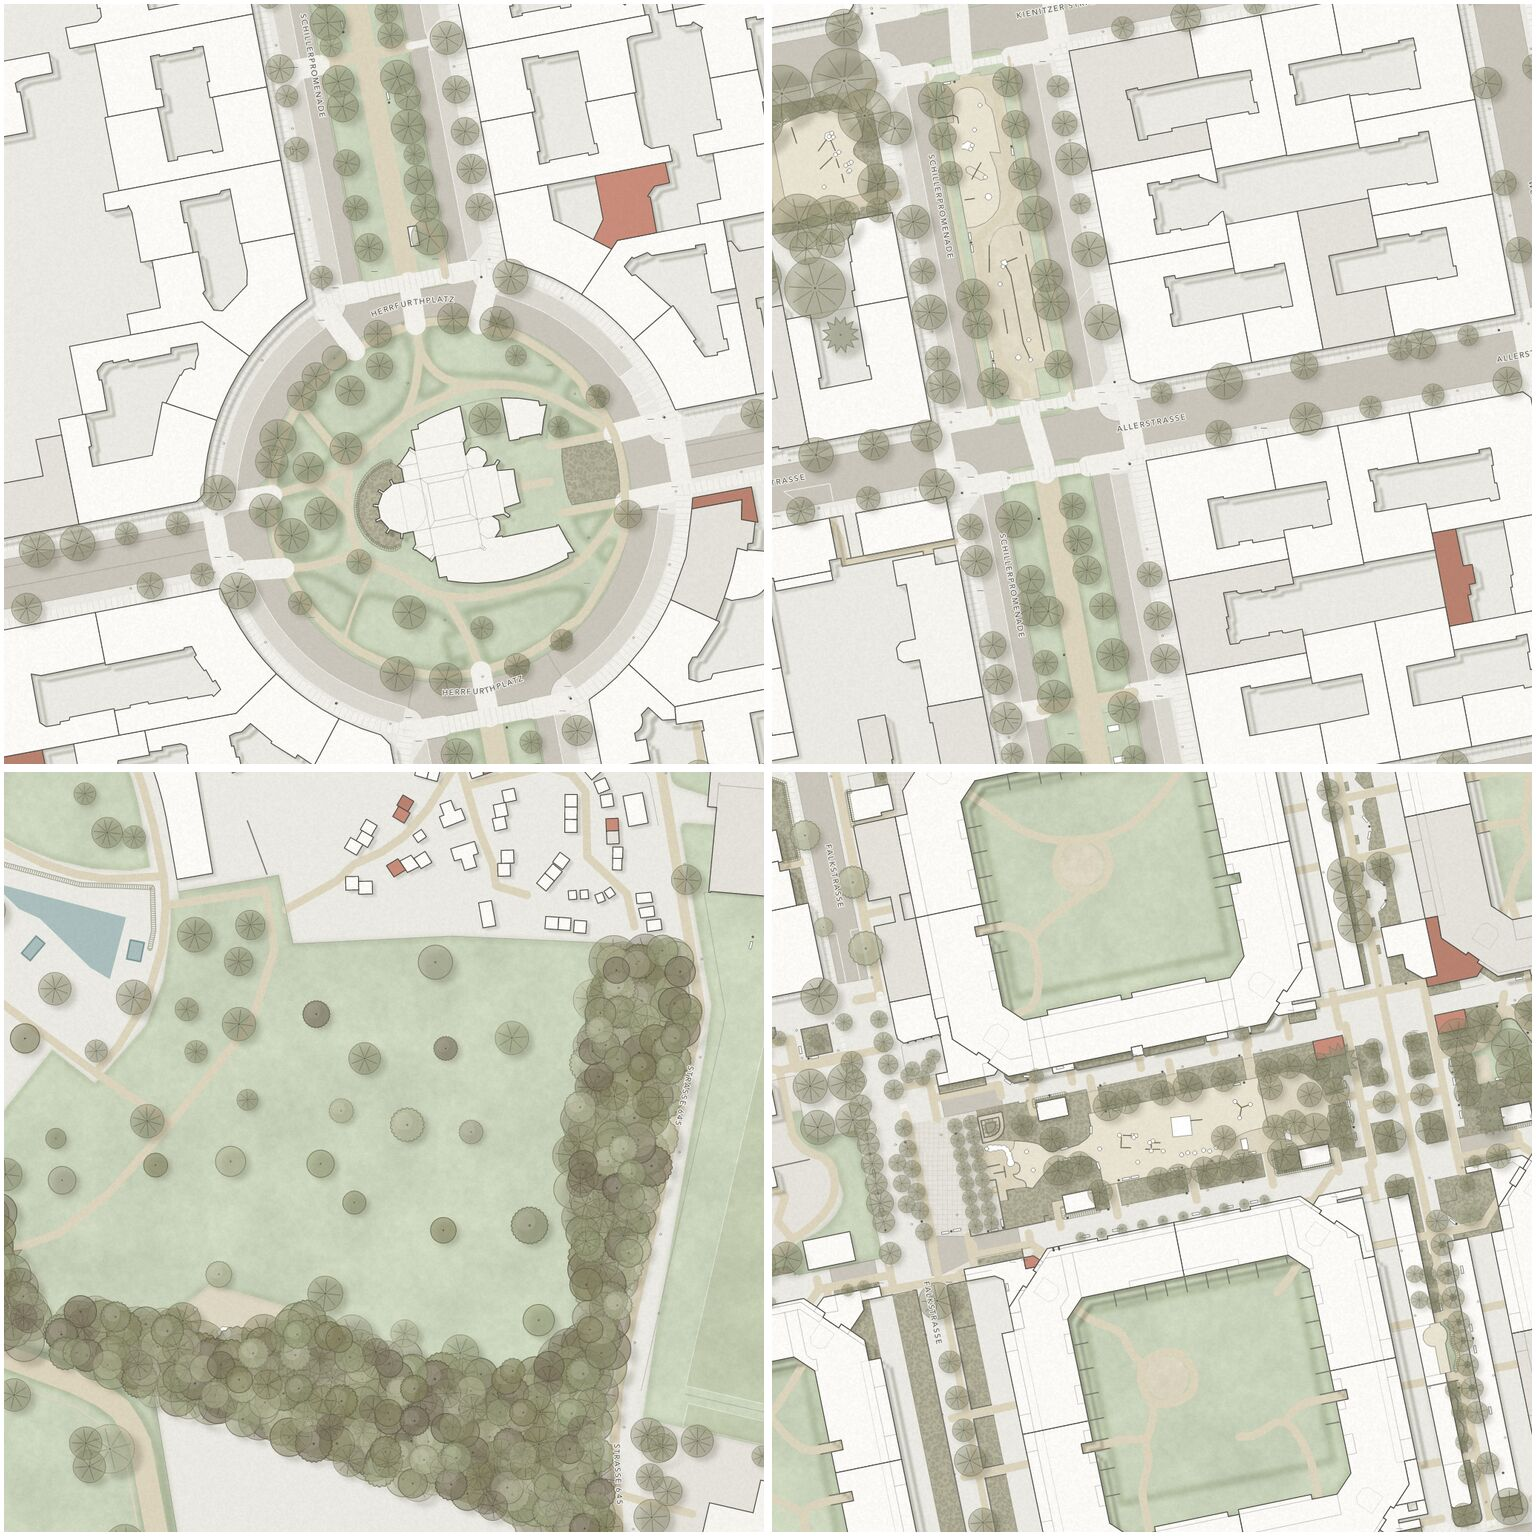
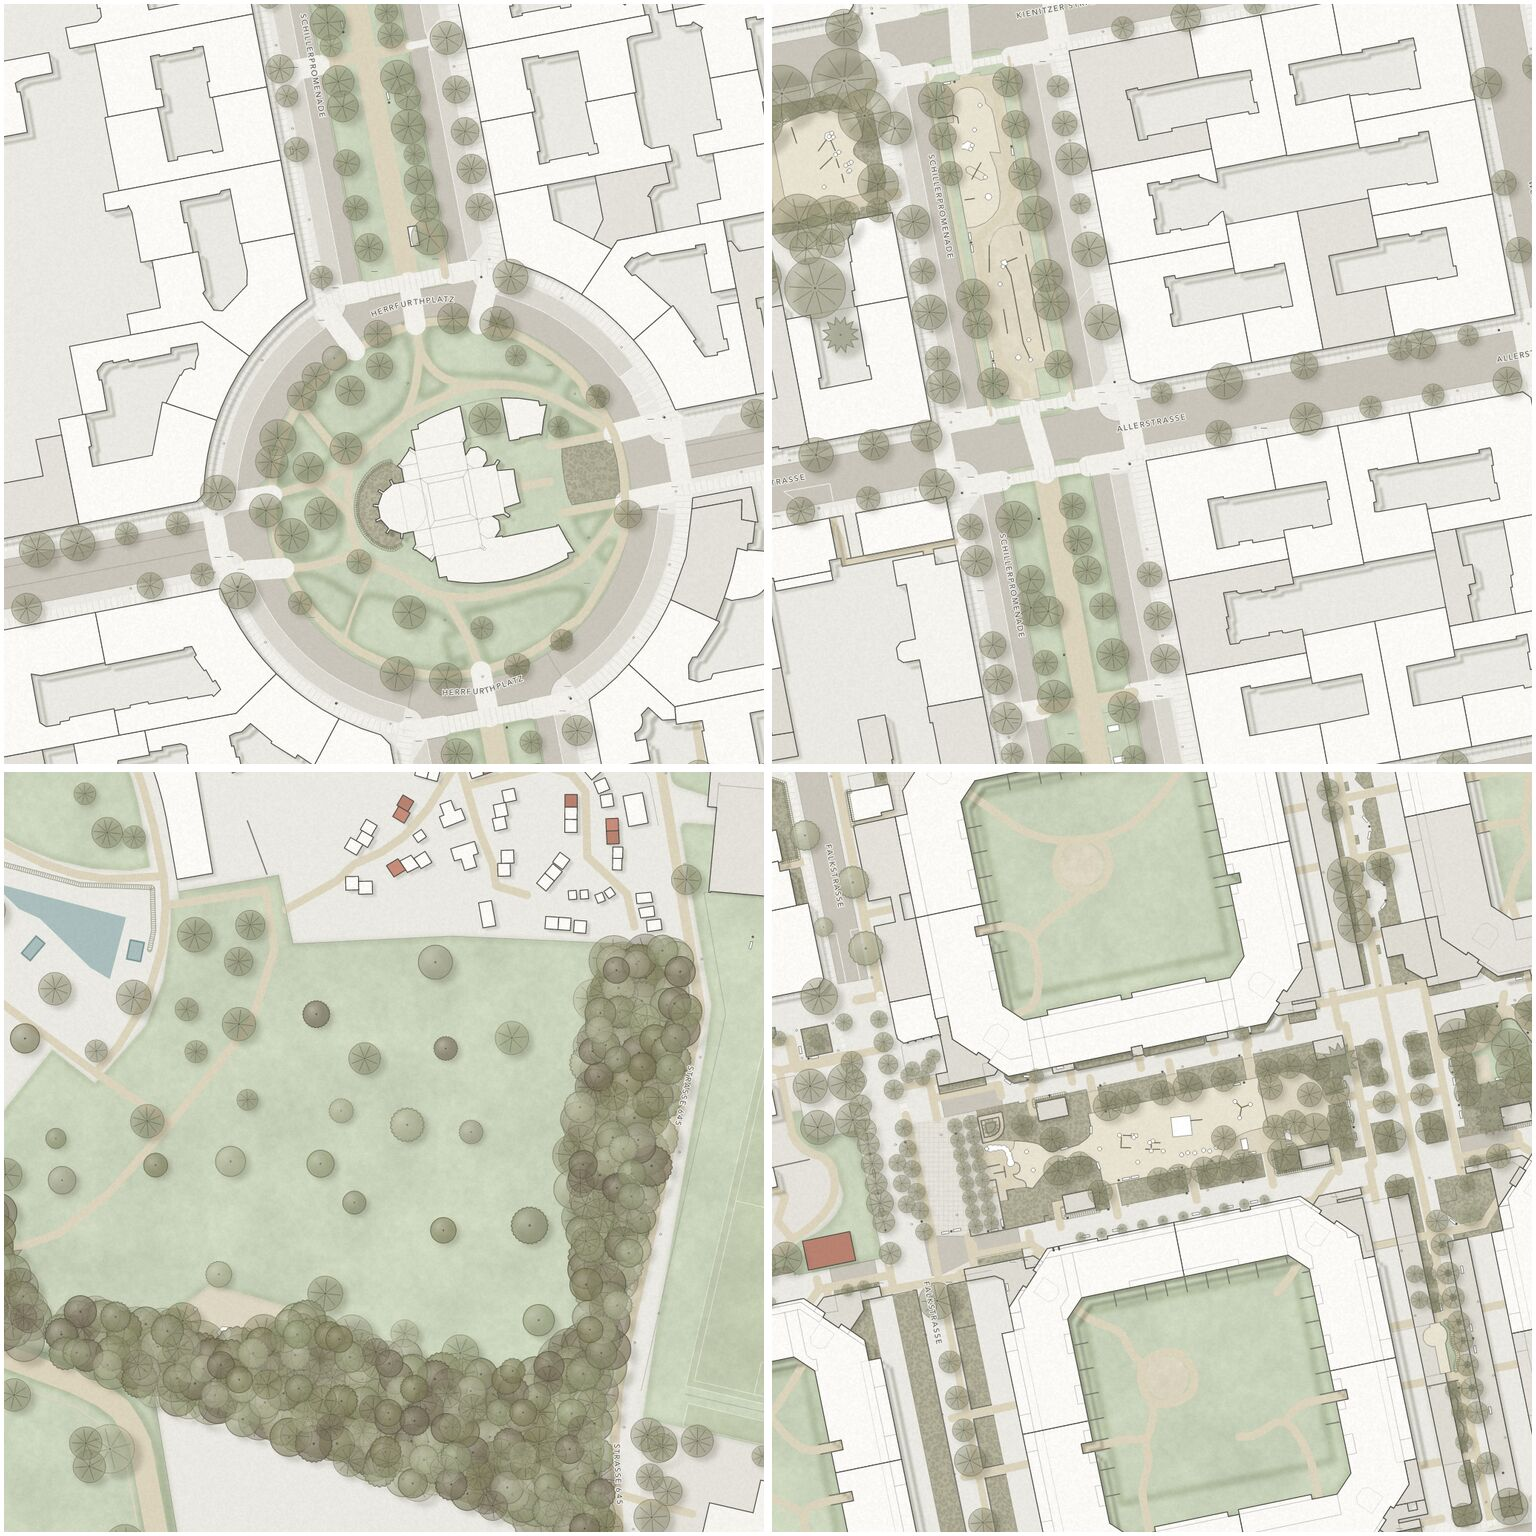
Design research: red roofs only on small homes, heavier ink at low zoom, Schillerkiez showcases

diff --git a/rust/srk-render/src/style_la.rs b/rust/srk-render/src/style_la.rs
@@ -225,9 +225,13 @@ pub fn render(client: &mut Client, prep: &mut PreparedCache, extent: RenderExten
         let r = rand01(f.id, 3);
         let landmark = matches!(f.class.as_str(), "church" | "chapel" | "cathedral" | "public" | "civic" | "school");
         let small = polygon_area_m2(&f.geom) < 300.0;
+        let outbuilding = matches!(f.class.as_str(), "garage" | "garages" | "shed" | "roof" | "carport" | "hut" | "service" | "transformer_tower");
+        let home = matches!(f.class.as_str(), "house" | "detached" | "semidetached_house" | "terrace" | "residential" | "chalet" | "allotment_house" | "bungalow" | "yes");
         let col = if landmark {
             "#F5F4EF"
-        } else if small && r < 0.14 {
+        } else if outbuilding {
+            "#DEDBD3"
+        } else if small && home && r < 0.22 {
             if r < 0.08 { "#C98C7A" } else { "#B98270" }
         } else if r < 0.16 {
             "#E3E1DA"

diff --git a/rust/srk-render/src/style_ink.rs b/rust/srk-render/src/style_ink.rs
@@ -31,7 +31,8 @@ pub fn render(client: &mut Client, prep: &mut PreparedCache, extent: RenderExten
     let mut ctx = Ctx { client, prep, extent, z, margin_m: 40.0 };
     apply_grain(&ctx, &mut pm, None, 90.0, 3, 0.045, 1);
 
-    let lw = ctx.m(0.16).clamp(0.6, 1.6); // base pen width
+    // base pen width; a little heavier when zoomed out so blocks still read
+    let lw = ctx.m(0.16).clamp(if z <= 17 { 0.85 } else { 0.7 }, 1.6);
     // Which category gets the accent ink: playground (default) | bench | tree | none
     let accent_cat = std::env::var("SRK_ACCENT").unwrap_or_else(|_| "playground".into());
 

diff --git a/docs/design-research/01-landscape-architecture/steps/09-red-roofs-showcase/README.md b/docs/design-research/01-landscape-architecture/steps/09-red-roofs-showcase/README.md
@@ -1,0 +1,4 @@
+# LA 09 — red roofs only on small homes; showcase
+
+- Red roofs only on small (< 300 m²) homes (`house`, `detached`, `terrace`, `residential`, `chalet`, `allotment_house`, `yes`), ~20 % of them. Garages, sheds, roofs, carports are light grey `#DEDBD3`. In the overview the red now lands on allotment huts and the odd villa instead of peppering the backyards.
+- `../../showcase-z18.jpg` / `../../showcase-z17.jpg`: the whole Schillerkiez extent rendered as production tiles (974 tiles z16–z19 in 16 s with 6 workers, WebP).

diff --git a/docs/design-research/02-fantasy-ink-map/steps/09-pen-weight-showcase/README.md b/docs/design-research/02-fantasy-ink-map/steps/09-pen-weight-showcase/README.md
@@ -1,0 +1,4 @@
+# Ink 09 — heavier pen when zoomed out; showcase
+
+- Base pen width has a higher floor at z ≤ 17 (0.85 px instead of 0.7 px) so blocks keep their outline when the map is zoomed out.
+- `../../showcase-z17.jpg` / `../../showcase-z18.jpg`: the whole Schillerkiez extent as production tiles (974 tiles z16–z19 in 28 s with 6 workers, WebP).
